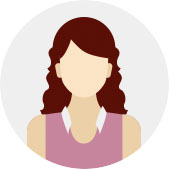
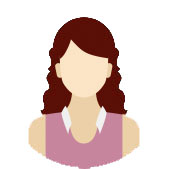
office change

diff --git a/mission5/mission5.html b/mission5/mission5.html
@@ -14,13 +14,13 @@
     </div>
     <div class="main">
         <div class="person-info">
-            <div class="photo">
-                photo
-            </div>
+            <div class="photo"></div>
             <div class="name">
+                <span>
                 name
                 age
                 address
+                </span>
             </div>
 
         </div>
@@ -30,7 +30,7 @@
             <div class="wt"><span class="gray">从业年限</span><span class="l">|</span><span>0~3年</span></div>
             <div class="worktime"><span class="gray">工作时间</span><span class="l">|</span><span>全天</span></div>
             <div class="pay"><span class="gray">服务价格</span><span class="l">|</span><span class="red">25元/小时</span></div>
-            <div class="self"><span class="gray">自我介绍</span><span class="l">|</span><span>可以洗衣、做饭、照顾老人。在胡工方面有5年的经验，经验丰富。</span></div>
+            <div class="self"><span class="gray">自我介绍</span><span class="l">|</span><span>可以洗衣、做饭、照顾老人。在护工方面有5年的经验，经验丰富。</span></div>
         </div>
     </div>
     <div class="foot">

diff --git a/mission5/mission5.css b/mission5/mission5.css
@@ -41,19 +41,23 @@ body{
 .person-info{
     height: 45.55555vw;
     display: flex;
-    flex-direction: row;
-    align-items: baseline;
+    /*align-items: baseline;*/
     background-image: url(personal-background.jpg);
     background-size:cover ;
 }
-.photo{
-    margin: 76px 0 0 30px;
+.photo {
+
+    margin: 10.55555vw 0 0 4.1666666vw;
     background-image: url(photo.jpg);
-    background-size: 169px;
+    background-size: 100%;
+    background-repeat: no-repeat;
+    width: 23.4722222vw;
 }
 .name{
-    margin: 116px 0 0 40px;
+    margin: 16.111111vw 0 0 5.5555555vw;
+    font-size: 4vw;
 }
+
 .info{
     display: flex;
     flex-direction: column;
@@ -90,6 +94,12 @@ button{
     height: 12.2222vw;
     margin: 0 1.73611vw;
 }
+@media screen and (min-width: 768px) {
+    button:hover {
+        color: #9df3ff
+    }
+}
+button:active{color: #23918c}
 span{padding: 0 6.944444vw;}
 .gray{
     color: #777;
